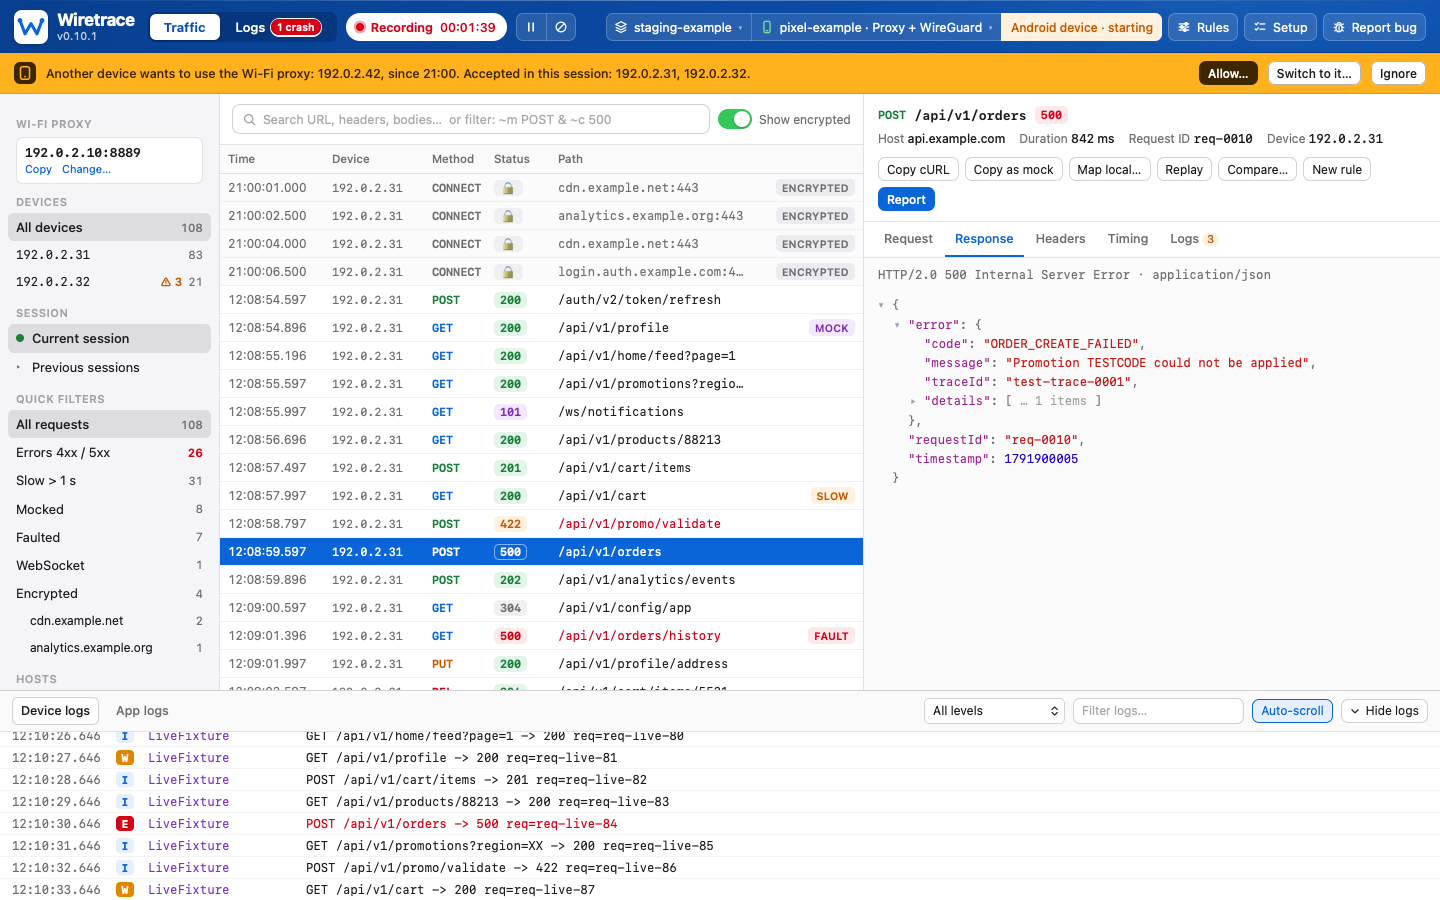
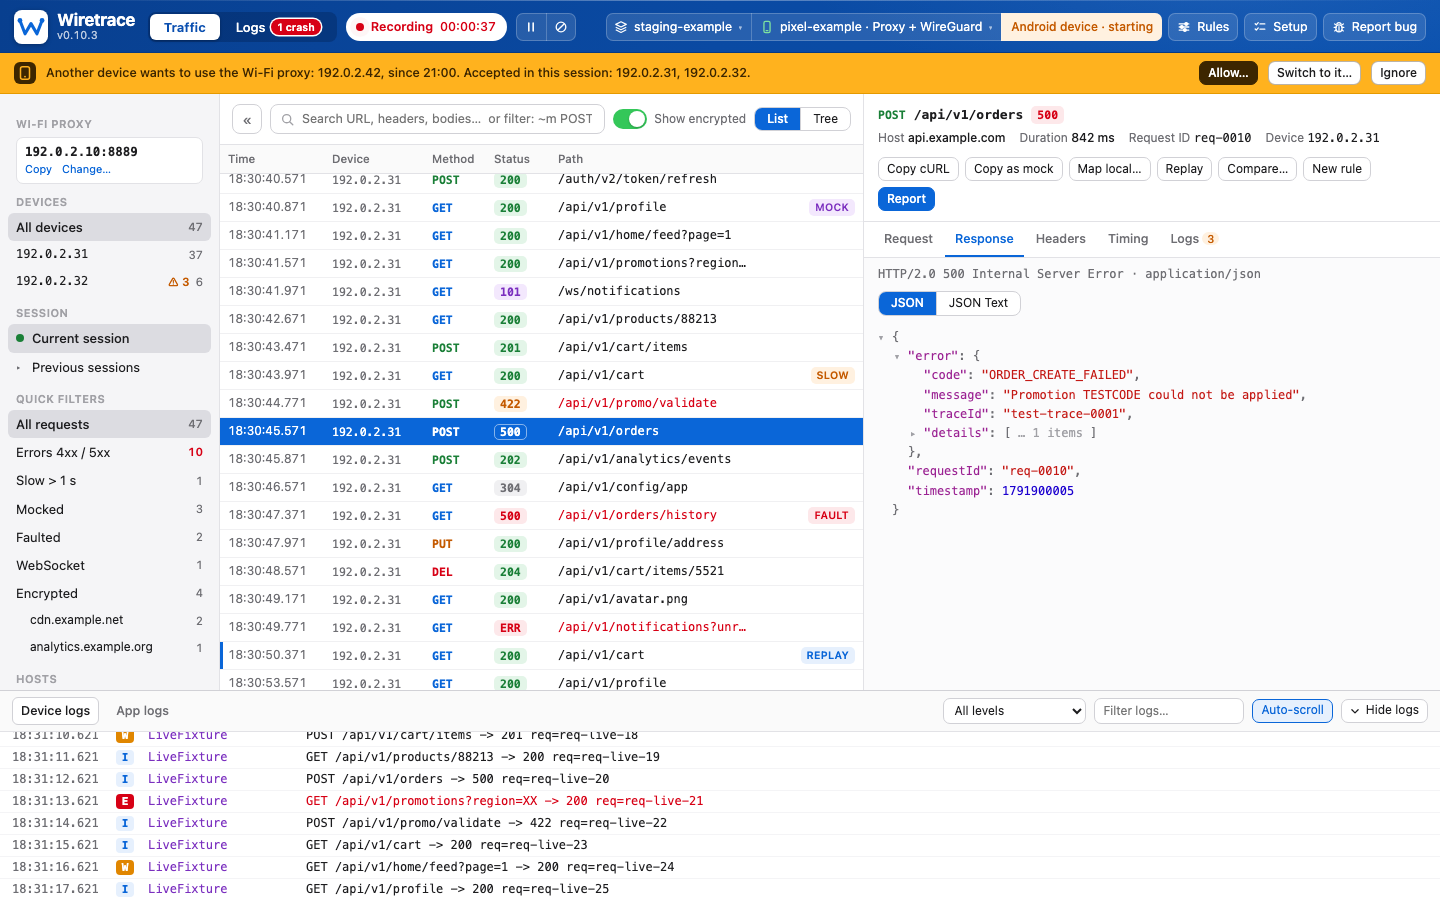
docs: show 0.10.3's Traffic view in the README screenshots
The README described the new Traffic features but its main-window screenshot
was still 0.10.1, without the sidebar toggle, List | Tree, JSON Text or the
replay stripe. Screen 1 is retaken at 1440x900 from the dev fixtures, and a
new 1a shows Tree with the sidebar hidden and a response as JSON Text; the
Tree image also leads the README under "At a glance". Logs, Setup, Rules and
the report form have not changed, so their 0.10.1 screenshots stay.

The fixtures gain a replay of GET /api/v1/cart so the List screenshot has a
striped replay row.

diff --git a/README.md b/README.md
@@ -22,6 +22,8 @@ Current version: **0.10.3**.
   description ready to paste into YouTrack or Jira. Nothing is sent: you copy and download.
 - **No admin account.** Download, drag to your home folder, double-click **install**.
 
+![Wiretrace 0.10.3: requests grouped by host and path in Tree, the sidebar hidden, and a failed response as JSON Text](docs/images/traffic-tree.png)
+
 **Using an older version?** 0.8.0 and 0.7.2 have no `./install` and no Wiretrace app, so
 the steps below do not work for them. Follow the guide of your version instead:
 
@@ -213,7 +215,8 @@ changed or not saved.
 
 ## Design
 
-Screens 1 to 4 and 5a below are **screenshots of Wiretrace 0.10.1** with the sample data in
+Screens 1 and 1a are **screenshots of Wiretrace 0.10.3**, and screens 2 to 4 and 5a of
+**0.10.1** (those screens have not changed since), all with the sample data in
 [`ui/dev/fixtures/`](ui/dev/fixtures/); every host, token and device in them is fake.
 Screens 5 and 6 are **design mockups**: they show where Wiretrace is going, and their data is
 illustrative. The mockups of every screen, with their source and notes, are in
@@ -228,9 +231,15 @@ illustrative. The mockups of every screen, with their source and notes, are in
 | 5. Send a bug report to YouTrack or Jira | Built: form to copy into YouTrack or Jira (screen 5a): title and description in Markdown or Jira wiki, masked HAR and log downloads, Android and Simulator screenshots. Not built: sending directly, signing in to the tracker, iPhone screenshots. |
 | 6. Menu-bar app | Built: status item while `./wiretrace start --ui wiretrace` runs (`--no-menu-bar` turns it off). Differences: no *Pause recording* (the window's Pause only freezes its list); *Show last error* instead of *Report last error*; the device line is target, mode and model. |
 
-**1. Main window** (screenshot, 0.10.1)
+**1. Main window** (screenshot, 0.10.3): the List layout, a failed request open, and a replay
+marked by its blue stripe
 
-![Wiretrace 0.10.1 main window with sample data](docs/images/traffic.png)
+![Wiretrace 0.10.3 main window in List, with a failed request open and a replay row striped blue](docs/images/traffic.png)
+
+**1a. Tree and JSON Text** (screenshot, 0.10.3): the sidebar hidden with **«**, requests
+grouped by host and path folder, and the response read as indented text
+
+![Wiretrace 0.10.3 Traffic in Tree with the sidebar hidden and the response as JSON Text](docs/images/traffic-tree.png)
 
 **2. Device and app logs** (screenshot, 0.10.1)
 
